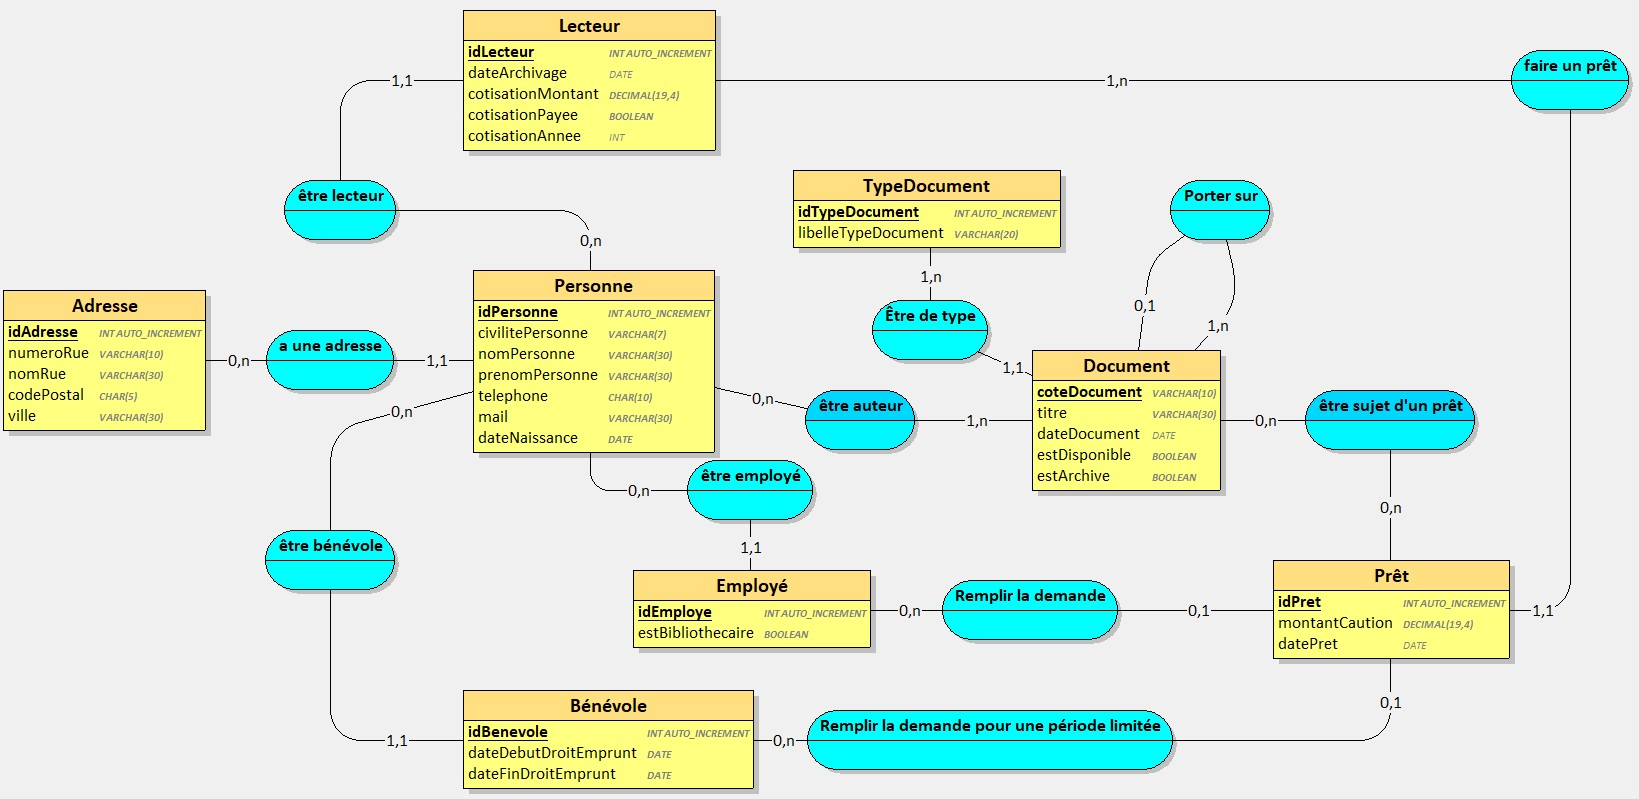
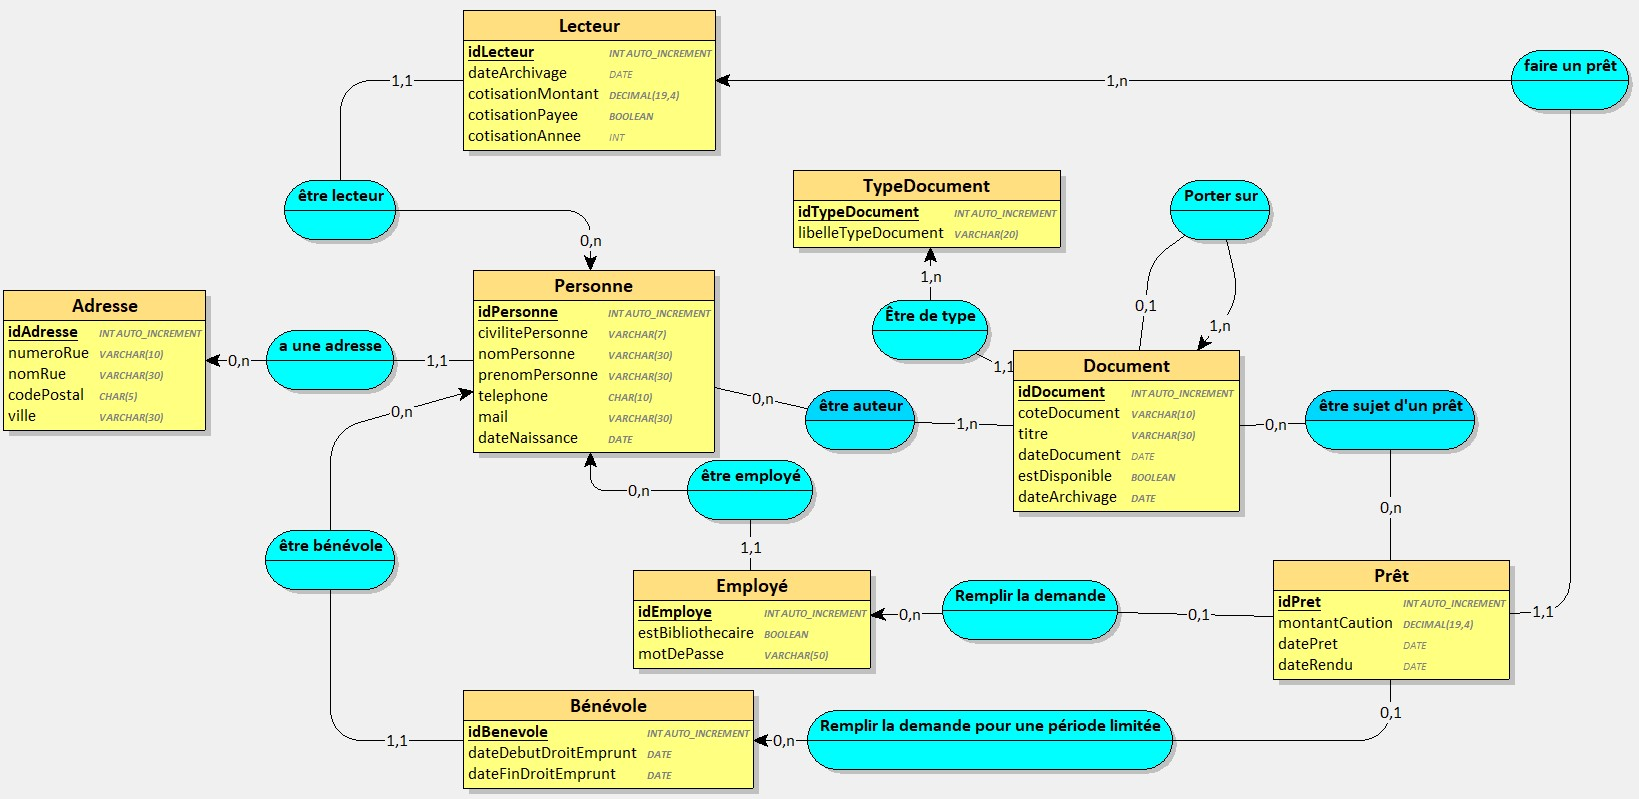
Modification Dictionnaire de données, MCD & MLD suites aux modification faites pour les maquettes.

diff --git a/Readme.md b/Readme.md
@@ -1,37 +1,49 @@
-# Conception no dev
+# Conception
 Conception sans développement.
 
-### 1. Le cahier des charges
+## 1. Le cahier des charges
 [Voir cahier des charges](1.%20Cahier%20des%20charges.pdf)
 
-### 2. Le diagramme de Cas d’Utilisation (use case)
+## 2. Le diagramme de Cas d’Utilisation (use case)
 ![Voir diagramme](./2.%20Diagramme%20des%20cas%20d'utilisation.drawio.png)
 
-### 3. Une charte graphique succincte
+## 3. Une charte graphique succincte
 [Voir charte](3.%20Charte%20graphique.md)
 
-### 4. Les maquettes de l’application et l’enchainement des écrans avec le logiciel de votre choix. 
+## 4. Les maquettes de l’application et l’enchainement des écrans avec le logiciel de votre choix. 
 Ne faire qu’une seule maquette de type zoning par type d’interface utilisateur et au moins deux maquettes incluant la charte graphique.
 
+### Écrans
+
 **Accueil** :
-- invité 
-- employé
+- Accueil des invités ![invité](./Maquettes/Accueil%20-%20invité.png "Accueil invité")
+- Accueil des employés ![employé](./Maquettes/Accueil%20-%20employé.png "Accueil employé")
 
 
 **Consultation** :
-- liste des documents 
-- liste des prêts d'un usager
+- liste des documents par un lecteur ![liste des documents ](./Maquettes/Consultation%20-%20documents%20-%20invité.png "liste des documents par un lecteur")
+- liste des documents par un employé ![Liste des documents](./Maquettes/Consultation%20-%20documents%20-%20employé.png "liste des documents par un employé")
+- liste des prêts d'un usager ![liste des prêts d'un usager](./Maquettes/Consultation%20-%20prêts.png "liste des prêts d'un usager")
+- liste des lecteurs ![Liste des lecteurs](./Maquettes/Consultation%20-%20lecteurs.png "Liste des lecteurs")
+- liste des employés ![Liste des employé](./Maquettes/Consultation%20-%20employés.png "Liste des employés")
 
-**Création** :
-- lecteur 
-- employé 
-- document 
-- prêt
+**CRUD** :
+- personne (lecteur / bénévole / employé) ![Création d'une personne](./Maquettes/Création%20personne%20-%20employé.png "CRUD d'une personne")
+- document (livre / CD-Rom / journal / microfilm) ![CRUD d'un document](./Maquettes/Création%20document%20-%20employé.png "CRUD d'un document") 
+- prêt ![CRUD d'un prêt](./Maquettes/Création%20prêt%20-%20employé.png "CRUD d'un prêt")
 
 **Connexion** : 
-- employé
+- employé ![Connexion d'un employé](./Maquettes/Connexion%20-%20invité.png "Connexion d'un employé")
 
-### 5. Le dictionnaire de données, les règles de gestion et d’organisation, le MCD et le MLD
+### Enchaînement des écrans
+
+**Connexion d'un employé**
+
+**Prêt d'un document**
+
+**Rappel d'un prêt du**
+
+## 5. Le dictionnaire de données, les règles de gestion et d’organisation, le MCD et le MLD
 - [Voir dictionnaire de données](5.%20Dictionnaire%20de%20données.md)
 - [Voir règles de gestion](5.%20Règles%20de%20gestion.md)
 - [Voir règles d'organisation](5.%20Règles%20d'organisation.md)
@@ -40,6 +52,6 @@ Ne faire qu’une seule maquette de type zoning par type d’interface utilisate
 - [Voir le modèle logique des données](5.%20MLD.md)
 
 
-###  6. Le diagramme de Classes des classes Métier
+##  6. Le diagramme de Classes des classes Métier
 
-###  7. Le diagramme de séquence et le diagramme d’activité pour un emprunt de CD
+##  7. Le diagramme de séquence et le diagramme d’activité pour un emprunt de CD

diff --git a/5. Dictionnaire de données.md b/5. Dictionnaire de données.md
@@ -8,7 +8,7 @@
 | titre                   | documents        | Chaîne de caractères | Oui             |  
 | dateDocument            | documents        | Date                 | Non             |  
 | estDisponible           | documents        | Booléen              | Oui             |  
-| estArchive              | documents        | Booléen              | Oui             |  
+| dateArchivage           | documents        | Date                 | Oui             |  
 | civilitePersonne        | personnes        | Chaîne de caractères | Oui             |  
 | nomPersonne             | personnes        | Chaîne de caractères | Oui             |  
 | prenomPersonne          | personnes        | Chaîne de caractères | Oui             |  
@@ -17,7 +17,8 @@
 | dateNaissance           | personnes        | Date                 | Oui             |  
 | dateDebutDroitEmprunt   | benevoles        | Date                 | Oui             |  
 | dateFinDroitEmprunt     | benevoles        | Date                 | Oui             |  
-| estBibliothecaire       | employes         | Booléen              | Oui             |  
+| estBibliothecaire       | employes         | Booléen              | Oui             |
+| motDePasse              | employes         | Chaîne de caractères | Oui             |
 | dateArchivage           | lecteurs         | Date                 | Oui             |  
 | cotisationMontant       | lecteurs         | Nombre               | Oui             |  
 | cotisationPayee         | lecteurs         | Booléen              | Oui             |  

diff --git a/5. MLD.md b/5. MLD.md
@@ -6,13 +6,13 @@ personnes = (idPersonne INT AUTO_INCREMENT, civilitePersonne VARCHAR(7), nomPers
 
 benevoles = (idBenevole INT AUTO_INCREMENT, dateDebutDroitEmprunt DATE, dateFinDroitEmprunt DATE, [#idPersonne]());<br>
 
-documents = (coteDocument VARCHAR(10), titre VARCHAR(30), dateDocument DATE, estDisponible BOOLEAN, estArchive BOOLEAN, [#idSujetFilm*](), [#idTypeDocument]());<br>
+documents = (idDocument INT AUTO_INCREMENT, coteDocument VARCHAR(10), titre VARCHAR(30), dateDocument DATE, estDisponible BOOLEAN, dateArchivage DATE, [#idSujetFilm*](), [#idTypeDocument]());<br>
 
 employes = (idEmploye INT AUTO_INCREMENT, estBibliothecaire BOOLEAN, [#idPersonne]());<br>
 
 lecteurs = (idLecteur INT AUTO_INCREMENT, dateArchivage DATE, cotisationMontant DECIMAL(19,4), cotisationPayee BOOLEAN, cotisationAnnee INT, [#idPersonne]());<br>
 
-prets = (idPret INT AUTO_INCREMENT, montantCaution DECIMAL(19,4), datePret DATE, [#idLecteur](), [#idBenevole*](), [#idEmploye*]());<br>
+prets = (idPret INT AUTO_INCREMENT, montantCaution DECIMAL(19,4), datePret DATE, dateRendu DATE, [#idLecteur](), [#idBenevole*](), [#idEmploye*]());<br>
 
 être_sujet_d_un_prêt = ([#coteDocument](), [#idPret]());<br>
 
